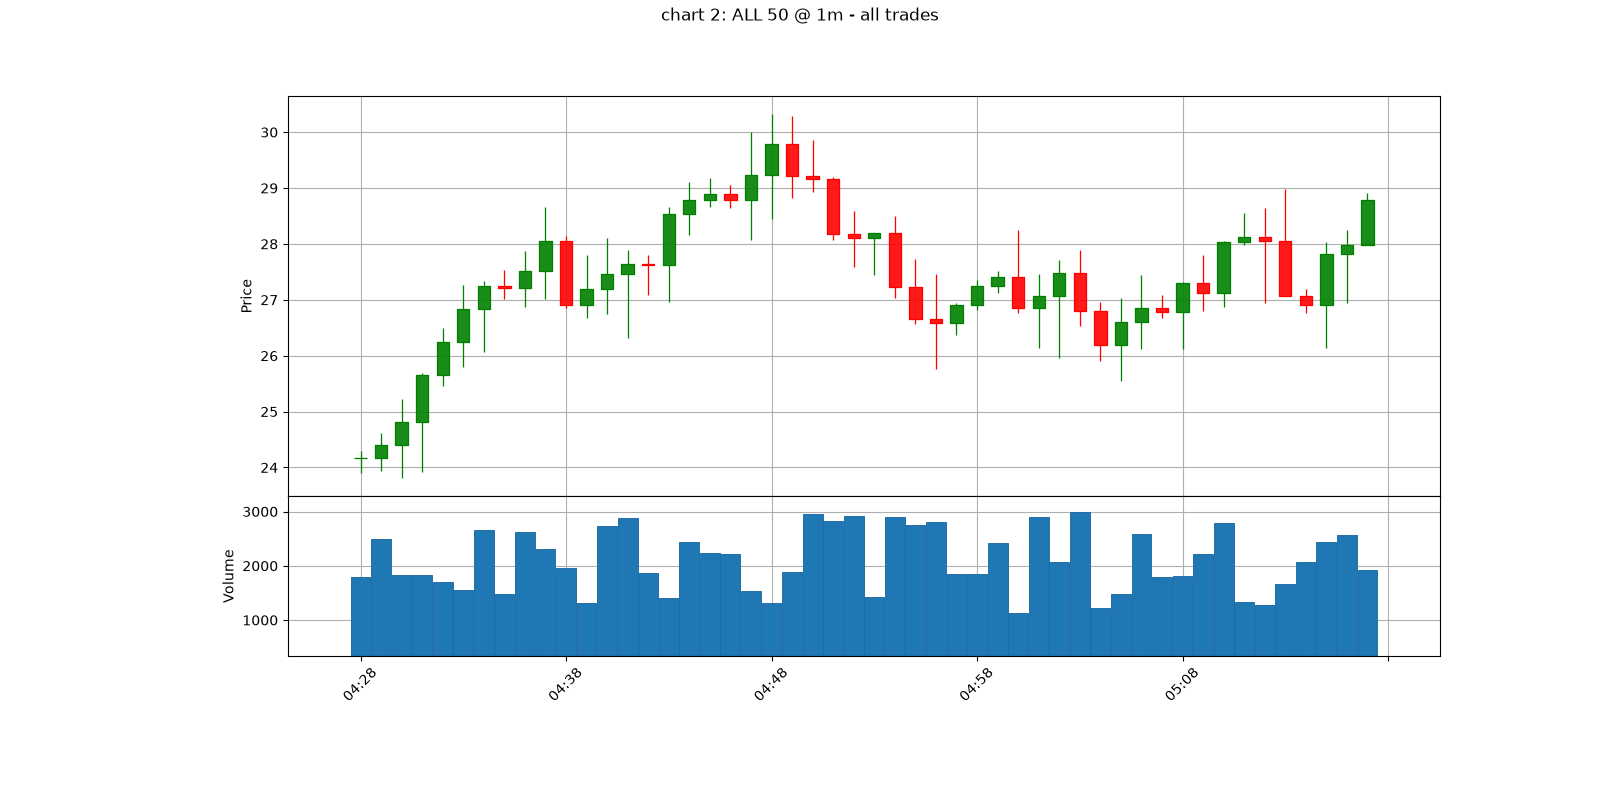
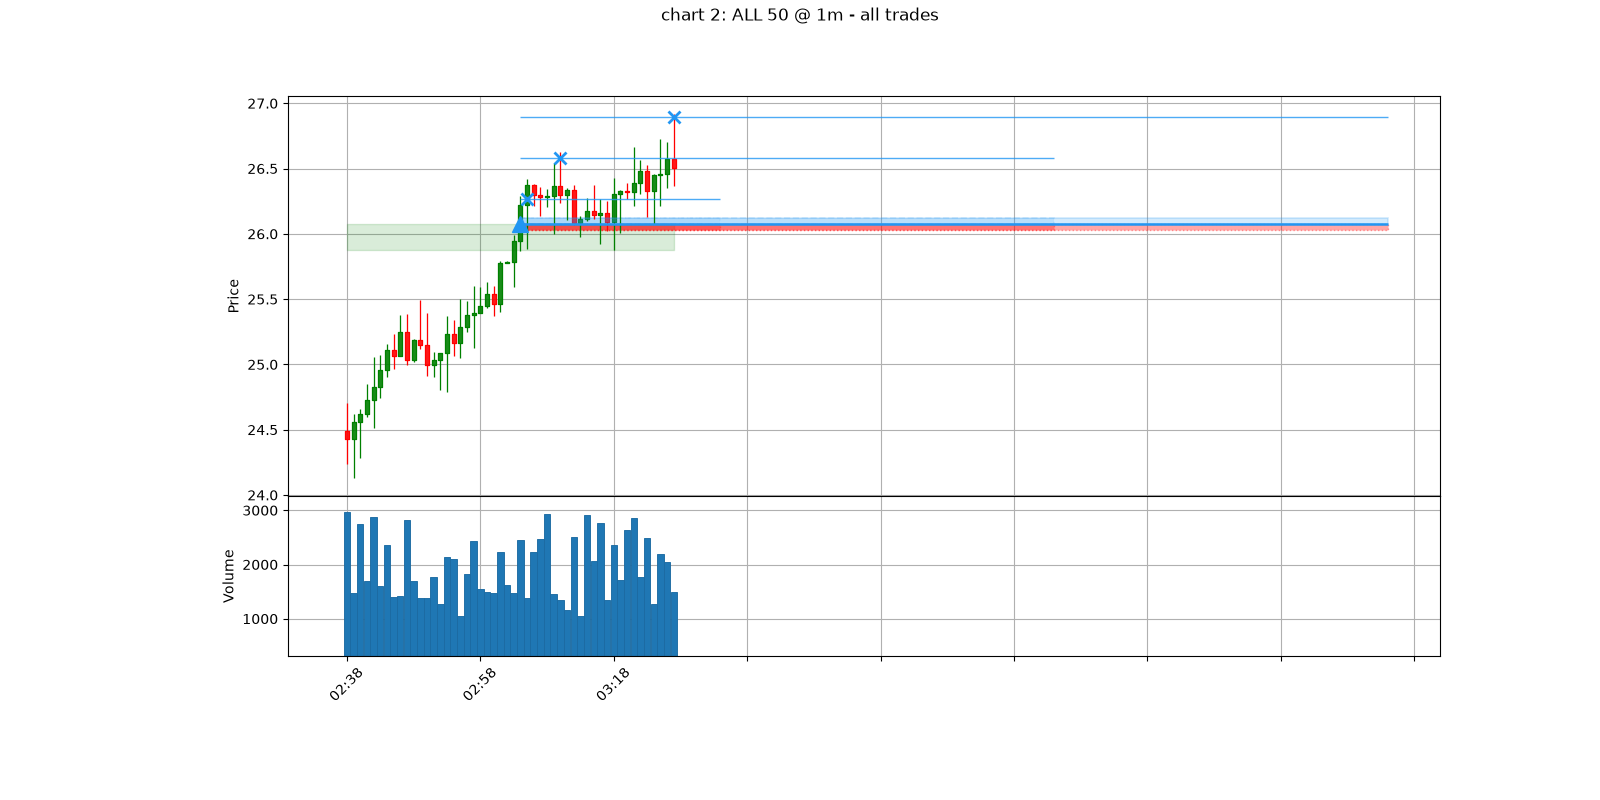
viewer.py: consume trades from main.py, exit markers, same format everywhere

diff --git a/viewer.py b/viewer.py
@@ -1,7 +1,7 @@
 import pandas as pd
 import mplfinance as mpf
 import matplotlib.pyplot as plt
-from main import randomCandles, analyzeSR, findSignals
+from main import randomCandles, resChannels, supChannels, trades
 
 
 def to_df(candles):
@@ -13,128 +13,50 @@ def to_df(candles):
     return df.set_index('Date')
 
 
-def aggregate(candles, target_timeframe, base_timeframe=60):
-    group_size = target_timeframe // base_timeframe
-    if group_size < 2:
-        return candles
-    out = []
-    for g in range(0, len(candles) - len(candles) % group_size, group_size):
-        grp = candles[g:g+group_size]
-        out.append((grp[0][0], max(c[1] for c in grp), min(c[2] for c in grp),
-                    grp[-1][3], sum(c[4] for c in grp), grp[0][5]))
-    return out
-
-
-SPAN = 150
-LOOKAHEAD = 800
-NUM_ORDERS = 3
 BOX_BASE = 50  # base candle span for Fibo horizontal widths
-
-
-def find_hit_candle(candles, direction, entry, sl, tp, start):
-    """Scan candles forward from start. Return which hit first: 'tp' or 'sl'."""
-    for j in range(start + 1, min(start + 2000, len(candles))):
-        high, low = candles[j][1], candles[j][2]
-        if direction == "BUY":
-            if low <= sl:
-                return "sl"
-            if high >= tp:
-                return "tp"
-        else:  # SELL
-            if high >= sl:
-                return "sl"
-            if low <= tp:
-                return "tp"
-    return "none"
-
-
-def find_entry_touch(candles, direction, entry, search_from):
-    limit = min(search_from + LOOKAHEAD, len(candles))
-    for j in range(search_from, limit):
-        if direction == "BUY" and candles[j][1] >= entry - 1e-9:
-            return j
-        if direction == "SELL" and candles[j][2] <= entry + 1e-9:
-            return j
-    return None
-
-
-def pick_3_trades(raw_trades, candles, n=NUM_ORDERS):
-    from collections import OrderedDict
-
-    # Group by entry price (same channel = same entry line)
-    sigs = OrderedDict()
-    for t in raw_trades:
-        entry_key = round(t[1], 2)
-        sigs.setdefault(entry_key, []).append(t)
-
-    picked = []
-    last_end = -SPAN
-
-    for entry_key, orders in sigs.items():
-        if len(picked) >= n:
-            break
-
-        d = orders[0][0]
-        entry = orders[0][1]
-        sl = orders[0][2]
-        ch_w = orders[0][5]
-
-        # Find up to 3 different start candles for this entry
-        # Each start candle must be after the previous trade's zone ends
-        signal_indices = sorted(set(o[4] for o in orders))
-        fibos = [0.618, 1.618, 2.618]
-
-        for sig_idx in signal_indices:
-            if len(picked) >= n:
-                break
-            s = find_entry_touch(candles, d, entry, sig_idx)
-            if s is None:
-                continue
-            if s < last_end:
-                continue
-            picked.append((d, entry, sl, fibos, ch_w, s))
-            max_box = int(BOX_BASE * fibos[-1])
-            last_end = s + max_box
-
-    return picked
 
 
 def trade_zoom(picked, candles, context=40):
     xl_list = []
     xr_list = []
     prices = []
-    for d, entry, sl, fibos, ch_w, s in picked:
-        box3 = int(BOX_BASE * fibos[-1])
-        xl_list.append(s)
-        xr_list.append(s + box3)
-        prices.append(entry)
+    for t in picked:
+        box3 = int(BOX_BASE * 2.618)
+        xl_list.append(t["entry_candle"])
+        xr_list.append(t["entry_candle"] + box3)
+        prices.append(t["entry"])
+        prices.append(t["sl"])
     xl = max(0, min(xl_list) - context)
     xr = min(len(candles), max(xr_list) + context)
-    # Tight zoom around entry — SL marker is small
     ymin = min(prices) - (max(prices) - min(prices) + 1) * 0.15
     ymax = max(prices) + (max(prices) - min(prices) + 1) * 0.15
     return xl, xr, ymin, ymax
 
 
-def plot_trades(ax, picked, candles):
+def plot_trades(ax, trades_list):
     """
-    Each trade: 1 entry line, 3 boxes with different horizontal widths.
-    Horizontal width = BOX_BASE × fibo candles.
-    Vertical: entry line + thin SL marker below/above.
+    Each trade: 1 entry line, 3 boxes (TP1/TP2/TP3) with different horizontal widths.
+    Horizontal width = BOX_BASE x fibo candles.
+    Exit markers: x = closed part (TP hit), o = stopped part (SL hit).
     """
-    for d, entry, sl, fibos, ch_w, s in picked:
+    for t in trades_list:
+        d = t["direction"]
+        entry = t["entry"]
+        sl = t["sl"]
+        s = t["entry_candle"]
         buy = d == "BUY"
         color = '#2196F3' if buy else '#E53935'  # blue = long, red = short
         sl_distance = abs(sl - entry)
         sl_band = sl_distance * 0.15
 
         # Draw from widest to narrowest
-        for i in range(len(fibos) - 1, -1, -1):
-            fibo = fibos[i]
+        for i in range(len(t["tps"]) - 1, -1, -1):
+            tp = t["tps"][i]
+            fibo = tp["fibo"]
             box_width = int(BOX_BASE * fibo)
             shade = 0.08 + i * 0.06
 
-            # Reward zone
+            # Reward zone (thin band on profit side of entry)
             if buy:
                 r_lo, r_hi = entry, entry + sl_band
             else:
@@ -152,108 +74,76 @@ def plot_trades(ax, picked, candles):
             ax.add_patch(plt.Rectangle((s, sl_lo), box_width, sl_hi - sl_lo,
                                        facecolor='red', alpha=0.25 + i * 0.05,
                                        edgecolor='red', linewidth=1.0,
-                                       linestyle='-' if i == 2 else '--'))
+                                       linestyle=':'))
+            # TP line at this part's TP price
+            ax.hlines(tp["price"], s, s + box_width, color=color, alpha=0.8, linewidth=1.0)
 
-        # Entry line — spans widest box
-        widest = int(BOX_BASE * fibos[-1])
-        ax.plot([s, s + widest], [entry, entry], color=color, linewidth=2, alpha=0.8)
+        # Entry line spans the widest box
+        ax.hlines(entry, s, s + int(BOX_BASE * 2.618), color=color, linewidth=1.8)
+        # Entry marker
         marker = '^' if buy else 'v'
         ax.plot([s], [entry], marker=marker, color=color, markersize=12)
 
+        # Exit markers per part
+        for p in t["parts"]:
+            if p["hit"] == "NO HIT":
+                continue
+            xc = p["exit_candle"]
+            yc = p["exit"]
+            if p["hit"].startswith("TP"):
+                ax.plot([xc], [yc], marker='x', color=color,
+                        markersize=9, markeredgewidth=2)
+            else:  # SL hit
+                ax.plot([xc], [yc], marker='o', color='red',
+                        markersize=7, markeredgewidth=1.5)
+
 
 # ─── Setup ─────────────────────────────────────────────
-FIVE_MIN = aggregate(randomCandles, 300)
-LOOKBACK = len(FIVE_MIN) // 2
-lookbackCandles = FIVE_MIN[:LOOKBACK]
-resChannels, supChannels = analyzeSR(lookbackCandles)
-print(f"Detected {len(resChannels)} resistance + {len(supChannels)} support channels on first {LOOKBACK} x 5m candles")
-
 style = mpf.make_marketcolors(up='green', down='red', edge='inherit', wick='inherit')
 style = mpf.make_mpf_style(marketcolors=style, rc={'axes.grid': True, 'axes.grid.which': 'major'})
 
-longTrades, shortTrades = findSignals(randomCandles, resChannels, supChannels)
-print(f"Raw signals: {len(longTrades)} long + {len(shortTrades)} short")
+print(f"Trades to plot: {len(trades)}")
+for t in trades:
+    parts_str = " | ".join(f"P{p['tp_level']}: {p['hit']} @{p['exit_candle']}" for p in t["parts"])
+    print(f"  #{t['id']} {t['direction']} entry={t['entry']:.4f} -> {parts_str}")
 
-
-def dedupe(trades):
-    seen = set()
-    out = []
-    for t in trades:
-        key = (t[0], round(t[1], 4), t[3], t[4])
-        if key not in seen:
-            seen.add(key)
-            out.append(t)
-    return out
-
-
-buy_all  = dedupe([t for t in longTrades if t[0] == "BUY"])
-sell_all = dedupe([t for t in shortTrades if t[0] == "SELL"])
-
-buy_picked  = pick_3_trades(buy_all, randomCandles, n=1)
-sell_picked = pick_3_trades(sell_all, randomCandles, n=1)
-
-print(f"Selected: {len(buy_picked)} long + {len(sell_picked)} short trades")
-order_num = 1
-for d, entry, sl, fibos, ch_w, s in buy_picked:
-    for fibo in fibos:
-        risk = entry - sl
-        tp = entry + risk * fibo
-        result = find_hit_candle(randomCandles, "BUY", entry, sl, tp, s)
-        profit = risk * fibo if result == "tp" else -risk
-        status = "WIN" if result == "tp" else "LOSS" if result == "sl" else "NO HIT"
-        print(f"  #{order_num} BUY  entry={entry:.4f} sl={sl:.4f} TP(×{fibo})={tp:.4f} → {status} ({'+' if profit>0 else ''}{profit:.4f})")
-        order_num += 1
-order_num = 1
-for d, entry, sl, fibos, ch_w, s in sell_picked:
-    for fibo in fibos:
-        risk = sl - entry
-        tp = entry - risk * fibo
-        result = find_hit_candle(randomCandles, "SELL", entry, sl, tp, s)
-        profit = risk * fibo if result == "tp" else -risk
-        status = "WIN" if result == "tp" else "LOSS" if result == "sl" else "NO HIT"
-        print(f"  #{order_num} SELL entry={entry:.4f} sl={sl:.4f} TP(×{fibo})={tp:.4f} → {status} ({'+' if profit>0 else ''}{profit:.4f})")
-        order_num += 1
-
-df1 = to_df(lookbackCandles)
-fig1, axes1 = mpf.plot(df1, type='candle', volume=True, style=style,
-    returnfig=True, warn_too_much_data=10000, figsize=(16, 8),
-    title=f'chart: first {LOOKBACK} @ 5m (channels detected here)')
-n1 = len(df1); x1 = range(n1)
-for hi, lo, _ in resChannels: axes1[0].fill_between(x1, hi, lo, color='red', alpha=0.15)
-for hi, lo, _ in supChannels: axes1[0].fill_between(x1, hi, lo, color='green', alpha=0.15)
-fig1.savefig('chart.png', dpi=100, pad_inches=0.4); plt.close(fig1)
+buy_trades  = [t for t in trades if t["direction"] == "BUY"]
+sell_trades = [t for t in trades if t["direction"] == "SELL"]
 
 df2 = to_df(randomCandles)
 fig2, axes2 = mpf.plot(df2, type='candle', volume=True, style=style,
     returnfig=True, warn_too_much_data=10000, figsize=(16, 8),
     title=f'chart 2: ALL {len(randomCandles)} @ 1m - all trades')
 n2 = len(df2); x2 = range(n2)
-for hi, lo, _ in resChannels: axes2[0].fill_between(x2, hi, lo, color='red', alpha=0.15)
-for hi, lo, _ in supChannels: axes2[0].fill_between(x2, hi, lo, color='green', alpha=0.15)
-plot_trades(axes2[0], buy_picked + sell_picked, randomCandles)
+for hi, lo, cnt in resChannels: axes2[0].fill_between(x2, hi, lo, color='red', alpha=0.15)
+for hi, lo, cnt in supChannels: axes2[0].fill_between(x2, hi, lo, color='green', alpha=0.15)
+plot_trades(axes2[0], buy_trades + sell_trades)
 fig2.savefig('chart_2.png', dpi=100, pad_inches=0.4); plt.close(fig2)
 
-if buy_picked:
+if buy_trades:
     df3 = to_df(randomCandles)
     fig3, axes3 = mpf.plot(df3, type='candle', volume=True, style=style,
         returnfig=True, warn_too_much_data=10000, figsize=(16, 8),
         title='chart 3: long trades only (zoomed)')
-    plot_trades(axes3[0], buy_picked, randomCandles)
-    xl, xr, ymin, ymax = trade_zoom(buy_picked, randomCandles)
+    for hi, lo, cnt in resChannels: axes3[0].fill_between(range(len(df3)), hi, lo, color='red', alpha=0.15)
+    for hi, lo, cnt in supChannels: axes3[0].fill_between(range(len(df3)), hi, lo, color='green', alpha=0.15)
+    plot_trades(axes3[0], buy_trades)
+    xl, xr, ymin, ymax = trade_zoom(buy_trades, randomCandles)
     axes3[0].set_xlim(xl, xr); axes3[0].set_ylim(ymin, ymax)
     fig3.savefig('chart_3.png', dpi=100, pad_inches=0.4); plt.close(fig3)
 
-if sell_picked:
+if sell_trades:
     df4 = to_df(randomCandles)
     fig4, axes4 = mpf.plot(df4, type='candle', volume=True, style=style,
         returnfig=True, warn_too_much_data=10000, figsize=(16, 8),
         title='chart 4: short trades only (zoomed)')
-    plot_trades(axes4[0], sell_picked, randomCandles)
-    xl, xr, ymin, ymax = trade_zoom(sell_picked, randomCandles)
+    for hi, lo, cnt in resChannels: axes4[0].fill_between(range(len(df4)), hi, lo, color='red', alpha=0.15)
+    for hi, lo, cnt in supChannels: axes4[0].fill_between(range(len(df4)), hi, lo, color='green', alpha=0.15)
+    plot_trades(axes4[0], sell_trades)
+    xl, xr, ymin, ymax = trade_zoom(sell_trades, randomCandles)
     axes4[0].set_xlim(xl, xr); axes4[0].set_ylim(ymin, ymax)
     fig4.savefig('chart_4.png', dpi=100, pad_inches=0.4); plt.close(fig4)
 
-print("chart.png   : 5m lookback + channels")
 print("chart_2.png : 1m all + all trades")
-print("chart_3.png : 1m all + long trades (zoomed)")
-print("chart_4.png : 1m all + short trades (zoomed)")
+if buy_trades: print("chart_3.png : long trades only (zoomed)")
+if sell_trades: print("chart_4.png : short trades only (zoomed)")
